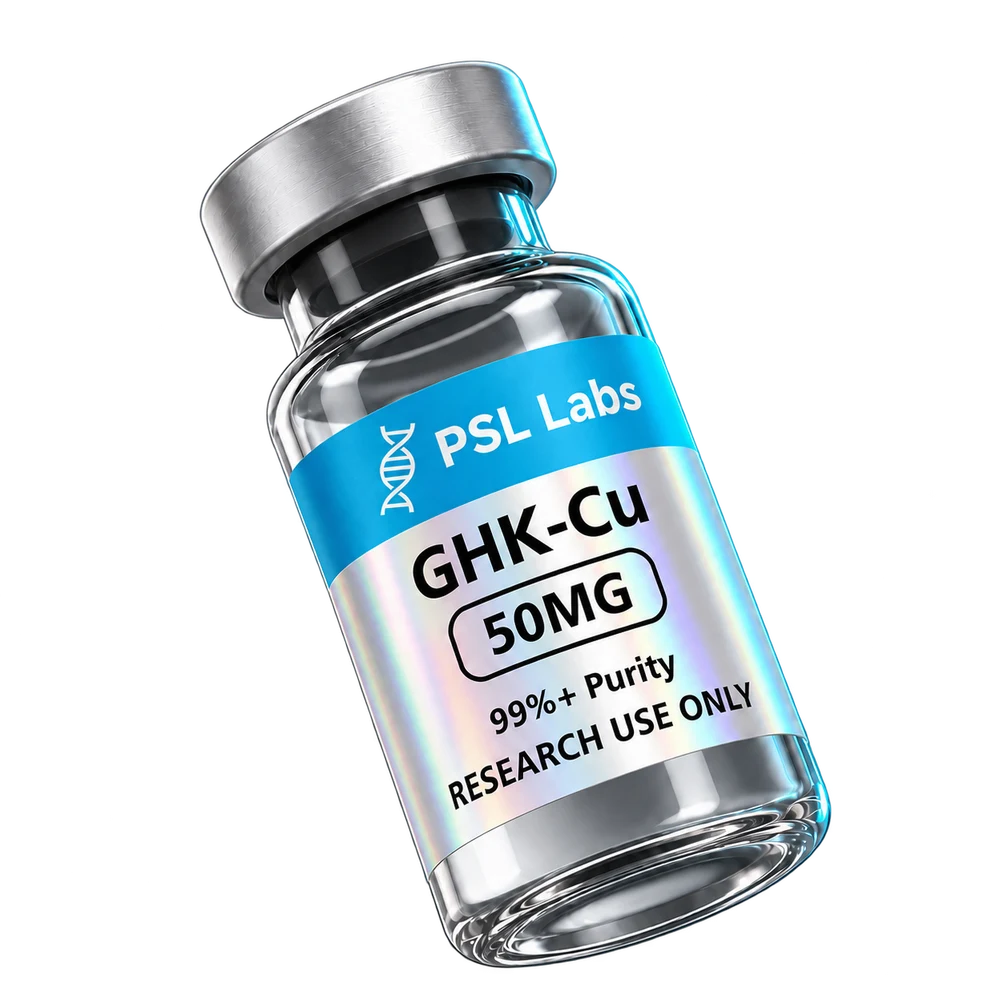
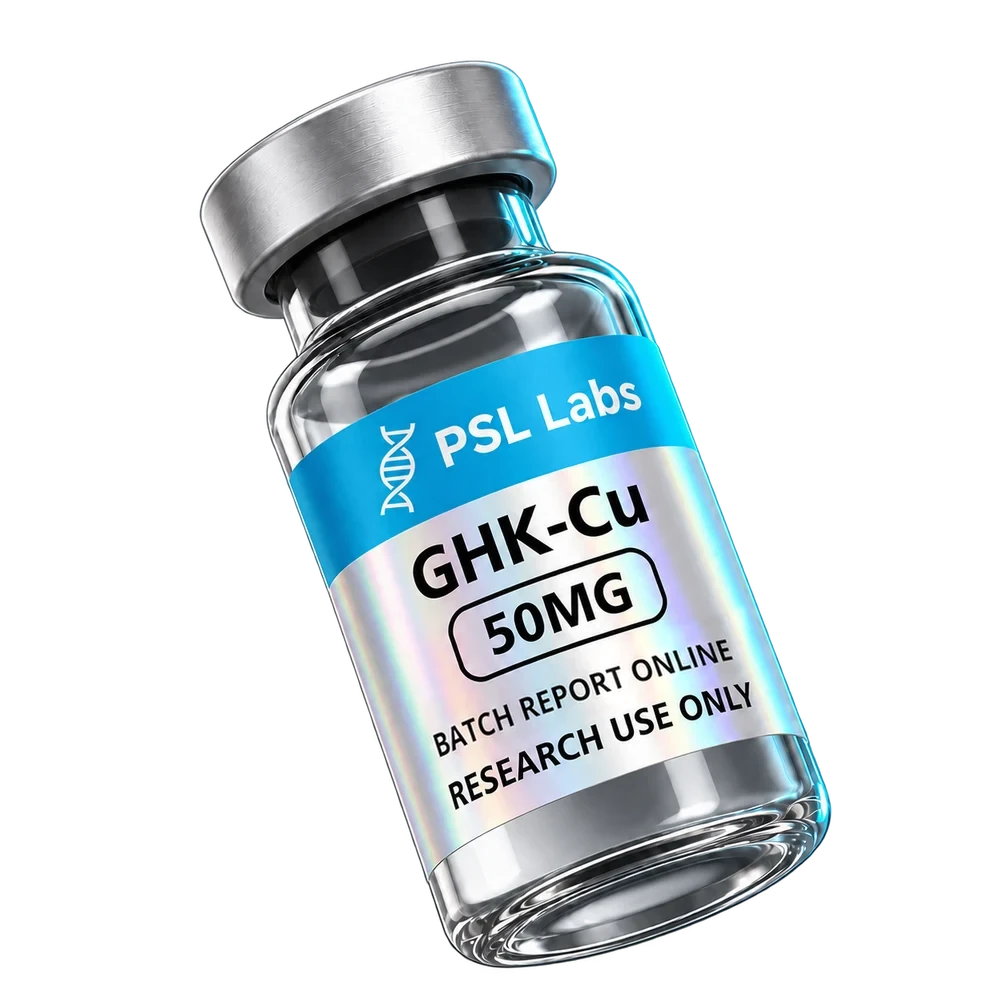
Pause card checkout; batch-report label art for every product
- New switch lib/checkout/card-availability.ts (CARD_CHECKOUT_PAUSED = true).
  The checkout shows the card option as unavailable with a short notice, and
  /api/checkout/card/session returns 503 before any reservation or provider
  call. A card payment already in progress can still finish; webhooks and the
  Bitcoin checkout are unchanged.
- Retatrutide, GHK-Cu and BPC-157 studio renders and cutouts now print
  "BATCH REPORT ONLINE" (no purity figure on the label), like Tesamorelin and
  the Reconstitution Solution. The home page vial uses a corrected copy
  (products/retatrutide-transparent-batch.png). Original files stay; their URLs
  307-redirect to the corrected art. Alt text follows the existing pattern.
- Tests: the offline route loaders provide the new switch (off, so card-flow
  checks keep running) and the guest-checkout suite checks that a paused card
  route refuses with no reservation or provider session.

Changed region(s): [[0.434, 0.62, 0.744, 0.775]]

diff --git a/components/checkout/checkout-page.tsx b/components/checkout/checkout-page.tsx
@@ -14,6 +14,7 @@ import { useCart } from "@/components/cart/cart-provider";
 import { FREE_SHIPPING_THRESHOLD } from "@/lib/cart/constants";
 import { formatPrice } from "@/lib/cart/format";
 import { DISCOUNT_CODES_ENABLED } from "@/lib/checkout/discount-codes-config";
+import { CARD_CHECKOUT_PAUSED, CARD_CHECKOUT_PAUSED_MESSAGE } from "@/lib/checkout/card-availability";
 import { ProductPrice } from "@/components/commerce/product-price";
 import { REFERRAL_CODE_FIELD_VISIBLE } from "@/lib/partners/referral-logic";
 import { computeTotals, type OrderTotals } from "@/lib/checkout/totals";
@@ -836,6 +837,28 @@ export function CheckoutPage({ visualPreview = false }: { visualPreview?: boolea
                   )}
                 </button>
 
+                {CARD_CHECKOUT_PAUSED && !tagadaSession ? (
+                  <div
+                    aria-disabled="true"
+                    className="flex items-start gap-3 rounded-xl border border-linen bg-lab-white p-4 text-left opacity-70"
+                  >
+                    <span className="flex size-9 shrink-0 items-center justify-center rounded-lg border border-linen bg-soft-blue/50">
+                      <CreditCard
+                        className="size-5 text-biotech-deep"
+                        strokeWidth={1.6}
+                        aria-hidden
+                      />
+                    </span>
+                    <div className="flex min-w-0 flex-1 flex-col gap-0.5">
+                      <span className="text-sm font-medium text-ink">
+                        Credit / Debit Card
+                      </span>
+                      <span className="text-xs leading-relaxed text-ash">
+                        {CARD_CHECKOUT_PAUSED_MESSAGE}
+                      </span>
+                    </div>
+                  </div>
+                ) : (
                 <button
                   type="button"
                   onClick={() => {
@@ -877,6 +900,7 @@ export function CheckoutPage({ visualPreview = false }: { visualPreview?: boolea
                     />
                   )}
                 </button>
+                )}
               </div>
 
               {payError && (

diff --git a/scripts/test-checkout-research.ts b/scripts/test-checkout-research.ts
@@ -83,10 +83,12 @@ const prepare = load("lib/checkout/prepare-order.ts", {
   "@/lib/inventory/store": { ensureInventorySchema: async () => {}, checkoutWithStockCheck: reserve },
 }) as { prepareReservedOrder: (body: CheckoutBody, options?: PrepareOrderOptions) => Promise<PrepareOrderResult> };
 
-function route(file: string) {
+const PAUSED_MESSAGE = "Card payments are paused (offline fixture).";
+function route(file: string, cardPaused = false) {
   return load(file, {
     "next/server": { NextResponse }, "@/lib/checkout/prepare-order": prepare,
     "@/lib/checkout/us-states": countries, "@/lib/orders/store": ordersMock,
+    "@/lib/checkout/card-availability": { CARD_CHECKOUT_PAUSED: cardPaused, CARD_CHECKOUT_PAUSED_MESSAGE: PAUSED_MESSAGE },
     "@/lib/privacy/server": { readRequestPrivacyConsent: async () => ({ consent: UNKNOWN_PRIVACY_CONSENT, binding: null }) },
     "@/lib/payments": { getPaymentProcessor: () => ({ createInvoice: async (input: { amount: number }) => {
       providerCreates++; check(input.amount, reserved.at(-1)!.total);
@@ -180,6 +182,13 @@ async function priorityChecks() {
 }
 
 async function routeChecks() {
+  // Card checkout paused: the card route refuses before any stock reservation or provider session.
+  const paused = route("app/api/checkout/card/session/route.ts", true);
+  const beforePaused = [providerCreates, reservations];
+  const pausedResponse = await paused.POST(request(BODY));
+  check(pausedResponse.status, 503);
+  check(((await pausedResponse.json()) as { error?: string }).error, PAUSED_MESSAGE);
+  check([providerCreates, reservations], beforePaused, "Paused card checkout starts no reservation or provider session");
   for (const file of ["app/api/checkout/route.ts", "app/api/checkout/card/session/route.ts"]) {
     const handler = route(file);
     const beforeMalformed = [providerCreates, reservations];

diff --git a/lib/products/images.ts b/lib/products/images.ts
@@ -1,16 +1,19 @@
 import { getProductCutout } from "./renders";
 
-/** Shared Retatrutide vial. Used as featured/hero fallback. */
+/**
+ * Shared Retatrutide vial. Used as featured/hero fallback. Same artwork as /Retatrutide-transparent.png with the
+ * label line corrected to "BATCH REPORT ONLINE" (the original stays in public/ and 307-redirects here).
+ */
 export const PRODUCT_VIAL_IMAGE = {
-  src: "/Retatrutide-transparent.png",
+  src: "/products/retatrutide-transparent-batch.png",
   alt: "Vial of lyophilized Retatrutide powder",
 } as const;
 
 /**
  * Record of the ORIGINAL per-product label artwork (transparent PNGs). Do not render these:
- * listings use the render cutouts (getProductImage below), and /products/tesamorelin-transparent.png
- * and /products/reconstitution-solution.png now 307-redirect to their cutouts (next.config.ts),
- * so next/image returns 400 ("isn't a valid image") for those two URLs.
+ * listings use the render cutouts (getProductImage below). The Tesamorelin, Reconstitution Solution,
+ * BPC-157 and GHK-Cu originals and /Retatrutide-transparent.png now 307-redirect to corrected art
+ * (next.config.ts), so next/image returns 400 ("isn't a valid image") for those URLs.
  */
 export const PRODUCT_IMAGES = {
   retatrutide: {
@@ -49,7 +52,7 @@ export type ProductImageHandle = keyof typeof PRODUCT_IMAGES;
  * Image used wherever a product is listed (catalog imageSrc: cart, checkout, sitemap fallback):
  * the illustrative render cutout when one exists.
  *
- * Label art: the Tesamorelin and Reconstitution Solution renders print "BATCH REPORT ONLINE".
+ * Label art: every render prints "BATCH REPORT ONLINE" (no purity figure on the label).
  * The original files stay in public/ and are not deleted.
  */
 export function getProductImage(handle: string): {

diff --git a/lib/products/renders.ts b/lib/products/renders.ts
@@ -1,8 +1,8 @@
 /** Illustrative studio renders. Original packaging artwork remains in images.ts. */
 const renders: Record<string, { src: string; alt: string }> = {
-  retatrutide: { src: "/products/renders/retatrutide-studio.webp", alt: "Illustrative studio render of the PSL Labs Retatrutide 10 mg vial" },
-  "ghk-cu": { src: "/products/renders/ghk-cu-studio.webp", alt: "Illustrative studio render of the PSL Labs GHK-Cu 50 mg vial" },
-  "bpc-157": { src: "/products/renders/bpc-157-studio.webp", alt: "Illustrative studio render of the PSL Labs BPC-157 10 mg vial" },
+  retatrutide: { src: "/products/renders/retatrutide-studio.webp", alt: "Illustrative PSL Labs Retatrutide 10 mg vial with corrected batch-report label; physical packaging may differ" },
+  "ghk-cu": { src: "/products/renders/ghk-cu-studio.webp", alt: "Illustrative PSL Labs GHK-Cu 50 mg vial with corrected batch-report label; physical packaging may differ" },
+  "bpc-157": { src: "/products/renders/bpc-157-studio.webp", alt: "Illustrative PSL Labs BPC-157 10 mg vial with corrected batch-report label; physical packaging may differ" },
   tesamorelin: { src: "/products/renders/tesamorelin-studio.webp", alt: "Illustrative PSL Labs Tesamorelin 10 mg vial with corrected batch-report label; physical packaging may differ" },
   "reconstitution-solution": { src: "/products/renders/reconstitution-solution-studio.webp", alt: "Illustrative PSL Labs Reconstitution Solution 5 ml vial with corrected batch-report label; physical packaging may differ" },
 };

diff --git a/next.config.ts b/next.config.ts
@@ -62,9 +62,24 @@ const nextConfig: NextConfig = {
         destination: "/products/psl-rs-5ml",
         permanent: true,
       },
-      // Legacy label art: send old links and image-search hits for these two original label
-      // files to the current "BATCH REPORT ONLINE" render cutouts without deleting the files.
+      // Legacy label art: send old links and image-search hits for the original label files
+      // to the current "BATCH REPORT ONLINE" art without deleting the files.
       // Temporary (307), so the originals can be restored.
+      {
+        source: "/Retatrutide-transparent.png",
+        destination: "/products/retatrutide-transparent-batch.png",
+        permanent: false,
+      },
+      {
+        source: "/products/bpc-157-transparent.png",
+        destination: "/products/renders/bpc-157-cutout.webp",
+        permanent: false,
+      },
+      {
+        source: "/products/ghk-cu-transparent.png",
+        destination: "/products/renders/ghk-cu-cutout.webp",
+        permanent: false,
+      },
       {
         source: "/products/tesamorelin-transparent.png",
         destination: "/products/renders/tesamorelin-cutout.webp",

diff --git a/app/api/checkout/card/session/route.ts b/app/api/checkout/card/session/route.ts
@@ -1,6 +1,7 @@
 import { NextResponse } from "next/server";
 
 import { normalizeCountryCode } from "@/lib/checkout/us-states";
+import { CARD_CHECKOUT_PAUSED, CARD_CHECKOUT_PAUSED_MESSAGE } from "@/lib/checkout/card-availability";
 
 import {
   prepareReservedOrder,
@@ -24,6 +25,7 @@ export const maxDuration = 300;
 export async function POST(request: Request) {
   if (process.env.PSL_VISUAL_PREVIEW === "1") return NextResponse.json(
     { error: "Preview only. Payments and order creation are disabled." }, { status: 503 });
+  if (CARD_CHECKOUT_PAUSED) return NextResponse.json({ error: CARD_CHECKOUT_PAUSED_MESSAGE }, { status: 503 });
   if (!isTagadaConfigured()) {
     return NextResponse.json(
       { error: "Card checkout is not available." },

diff --git a/scripts/test-checkout-validation.ts b/scripts/test-checkout-validation.ts
@@ -123,6 +123,8 @@ async function checkoutPrivacyChecks() {
       const route = load(filename, {
         "next/server": { NextResponse }, "@/lib/checkout/prepare-order": prepare,
         "@/lib/checkout/us-states": countries,
+        // Card checkout is paused in production; these checks exercise the route with the pause off.
+        "@/lib/checkout/card-availability": { CARD_CHECKOUT_PAUSED: false, CARD_CHECKOUT_PAUSED_MESSAGE: "offline fixture" },
         "@/lib/privacy/server": { readRequestPrivacyConsent: async (request: Request) => {
           reads++; assert.equal(request.headers.get("Sec-GPC"), "1");
           if (consentFails) throw new Error("offline consent storage unavailable");

diff --git a/lib/seo-page-dates.ts b/lib/seo-page-dates.ts
@@ -23,8 +23,8 @@ export const PAGE_LAST_MODIFIED: Readonly<Record<string, string>> = {
   "/products": PSL_FIX_RELEASE_DATE,
   // Descriptive product-page links on each published report.
   "/coa": PSL_FIX_RELEASE_DATE,
-  // Product pages: heading text, Offer shippingDetails; corrected images for Tesamorelin and
-  // Reconstitution Solution.
+  // Product pages: heading text, Offer shippingDetails; corrected "BATCH REPORT ONLINE" images for
+  // every product (the home page's hero vial too).
   "/products/psl-rt-10mg": PSL_FIX_RELEASE_DATE,
   "/products/psl-ghkcu-50mg": PSL_FIX_RELEASE_DATE,
   "/products/psl-bpc157-10mg": PSL_FIX_RELEASE_DATE,

diff --git a/lib/checkout/card-availability.ts b/lib/checkout/card-availability.ts
@@ -1,0 +1,9 @@
+/**
+ * Card checkout switch. While paused, the checkout hides the card option and /api/checkout/card/session
+ * refuses new card sessions. A card payment that was already started can still finish (3-D Secure
+ * return and the processor's webhooks are untouched). Bitcoin checkout is unaffected.
+ */
+export const CARD_CHECKOUT_PAUSED = true;
+
+/** Shown to shoppers while card checkout is paused. */
+export const CARD_CHECKOUT_PAUSED_MESSAGE = "Card payments are temporarily unavailable. Please pay with Bitcoin.";
